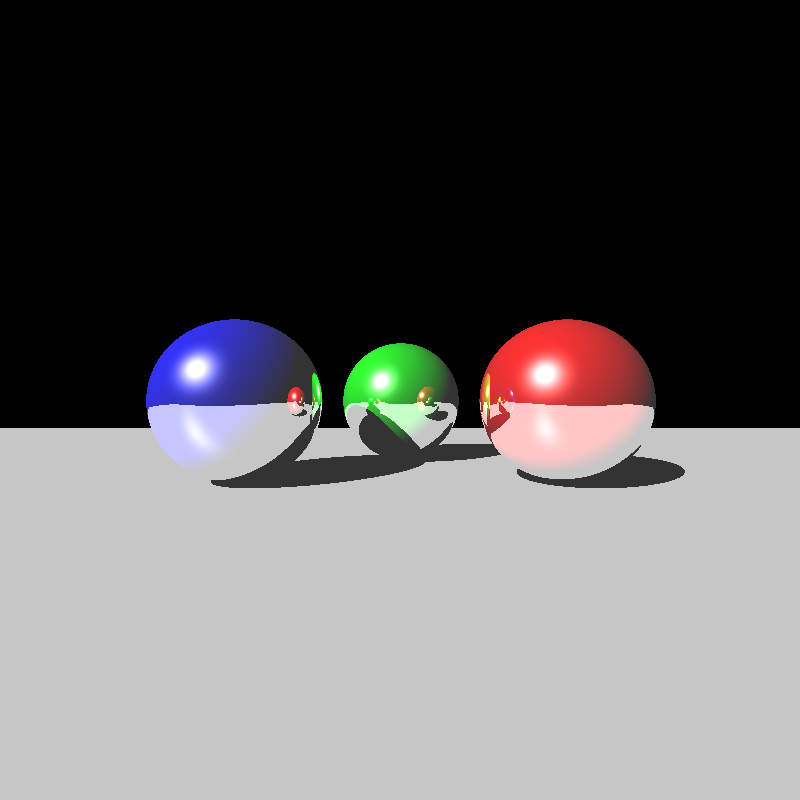
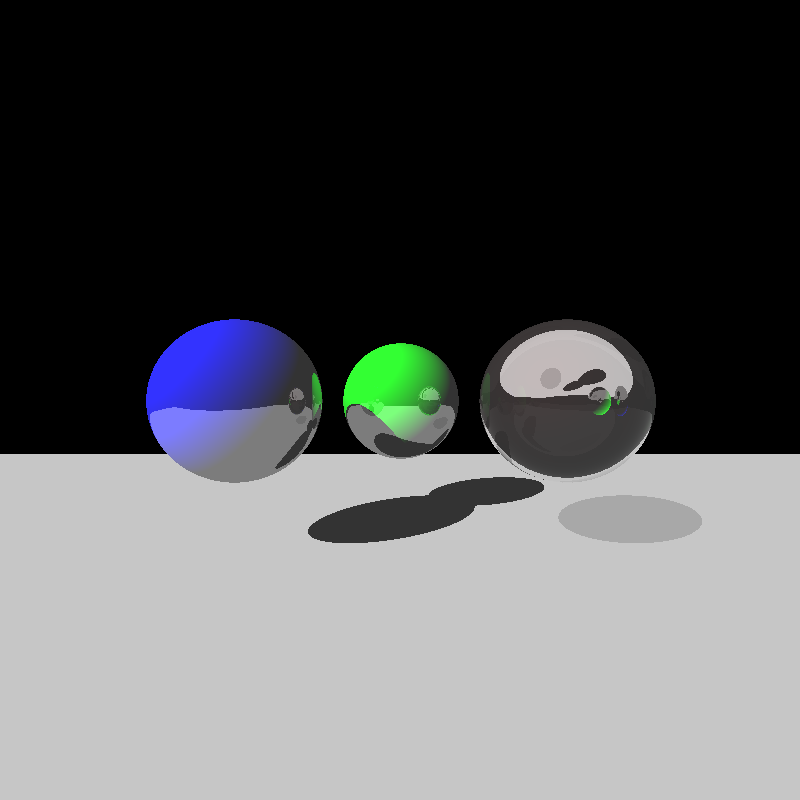
Reorganize the file structures and change to Whitted shading method.

Changed region(s): [[0.0, 0.375, 1.0, 0.6875]]

diff --git a/raytracer-windows/src/main.cpp b/raytracer-windows/src/main.cpp
@@ -13,50 +13,36 @@ int main()
     // set up objects
     Sphere* sphere1 = new Sphere(Point(0,0,0),1);
     sphere1->moveTo(Point(0, 2, 0));
-    BRDF brdf;
-    brdf.ka = Color(0.2, 0.2, 0.2);    
-    brdf.kd = Color(0.8, 0.0, 0.0);
-    brdf.ks = Color(1, 1, 1);
-    brdf.kr = Color(1, 1, 1);
-    sphere1->setBRDF(brdf);
-    sphere1->setShiness(50.0);
+    sphere1->material.kd = Color(0.02f, 0.0f, 0.0f);
+    sphere1->material.isReflective = true;
+    sphere1->material.isTransparent = true;
+    sphere1->material.refractive_index = 1.5f;
     scene1.objects.push_back(sphere1);
 
     Sphere* sphere2 = new Sphere(Point(0, 0, 0), 1);
     sphere2->moveTo(Point(0, -2, 0));
-    brdf.ka = Color(0.2, 0.2, 0.2);
-    brdf.kd = Color(0.0, 0.0, 0.8);
-    brdf.ks = Color(1, 1, 1);
-    brdf.kr = Color(1, 1, 1);
-    sphere2->setBRDF(brdf);
-    sphere2->setShiness(50.0);
+    sphere2->material.kd = Color(0.0, 0.0, 1.0);
+    sphere2->material.isReflective = true;
+    sphere2->material.ks = Color(0.5, 0.5, 0.5);
     scene1.objects.push_back(sphere2);
 
     Sphere* sphere3 = new Sphere(Point(0, 0, 0), 1);
     sphere3->moveTo(Point(-2, 0, 0));
-    brdf.ka = Color(0.2, 0.2, 0.2);
-    brdf.kd = Color(0.0, 0.8, 0.0);
-    brdf.ks = Color(1, 1, 1);
-    brdf.kr = Color(1, 1, 1);
-    sphere3->setBRDF(brdf);
-    sphere3->setShiness(50.0);
+    sphere3->material.kd = Color(0.0, 1.0, 0.0);
+    sphere3->material.isReflective = true;
+    sphere3->material.ks = Color(0.5, 0.5, 0.5);
     scene1.objects.push_back(sphere3);
 
     Plane* plane1 = new Plane(Vertex(10,-20,0),Vertex(10,20,0),Vertex(-10,20,0));
-    plane1->moveTo(Point(0, 0, -1));
-    brdf.ka = Color(0.2, 0.2, 0.2);
-    brdf.kd = Color(1.0, 1.0, 1.0);
-    brdf.ks = Color(0.2, 0.2, 0.2);
-    brdf.kr = Color(0, 0, 0);
-    plane1->setBRDF(brdf);
-    plane1->setShiness(50.0);
+    plane1->moveTo(Point(0, 0, -2));
+    plane1->material.kd = Color(1.0, 1.0, 1.0);
     scene1.objects.push_back(plane1);
 
     // set up lights
     DirectionalLight* dLight = new DirectionalLight(Vector(-1,  1, -1));
-    dLight->color.r = 0.5;
-    dLight->color.g = 0.5;
-    dLight->color.b = 0.5;
+    dLight->color.r = 1.0;
+    dLight->color.g = 1.0;
+    dLight->color.b = 1.0;
     scene1.light_sources.push_back(dLight);
 
     PointLight* pLight = new PointLight(Point(10, -10, 10));
@@ -70,11 +56,12 @@ int main()
     cam1->setImageSize(800, 800);
     cam1->setFovy(90);
     cam1->moveToGlobal(Point(5.0f, 0.0f, 0.0f));
-    cam1->lootAtDirection(Vector(-1, 0, 0));
+    cam1->lootAtPoint(Vector(0, 0, 0));
 
     // cam1->setCamToWorld(Transformation(0, 1, 0, 0, 0, 0, 1, 0, 1, 0, 0, 0, 0, 0, 0, 1));
     scene1.camera_list.push_back(cam1);
 
     scene1.render();
-    
+
+    return 0;
 }

diff --git a/raytracer-windows/include/Primitives/PrimitiveBase.h b/raytracer-windows/include/Primitives/PrimitiveBase.h
@@ -1,10 +1,12 @@
 #pragma once
 #include <glm/glm.hpp>
 #include <glm/gtc/matrix_transform.hpp>
-#include "Ray.h"
-#include "Typedefs.h"
+#include "../Ray.h"
+#include "../Typedefs.h"
+#include "../Materials/MaterialBase.h"
 
 class PrimitiveBase;
+class Ray;
 
 struct Intersection
 {
@@ -12,14 +14,15 @@ struct Intersection
 
 	float dist;
 	Point hitPosition;
-	Vector normalVec;
+	Vector outward_normal; // always point against the ray direction 
 };
 
 
 class PrimitiveBase
 {
 public:
-	virtual bool intersect(const Ray& ray, Intersection *result);
+	virtual bool intersect(const Ray& ray, Intersection* result);
+	//virtual bool intersect(const Ray& ray, Intersection *result);
 	
 	// move object to global/world coordinate
 	virtual void moveTo(const Point& newOrigin);
@@ -34,16 +37,10 @@ public:
 
 	void setWorldToObject(const Transformation& T);
 	void setObjectToWorld(const Transformation& T);
-
-	// material
-	BRDF getBRDF();
-	void setBRDF(BRDF new_brdf);
-	float getShiness();
-	void setShiness(float s);
 	
 	// general properties
 	Point center;
-	Material material;
+	MaterialBase material;
 	Transformation worldToObject = Transformation(1.0);
 	Transformation objectToWorld = Transformation(1.0);
 

diff --git a/raytracer-windows/include/Typedefs.h b/raytracer-windows/include/Typedefs.h
@@ -9,57 +9,3 @@ typedef glm::vec3 Translation;
 typedef glm::mat3 Rotation;
 
 typedef glm::mat4 Transformation;
-
-struct Sample {
-	Sample(float u, float v) :u(u), v(v) {};
-	float u;
-	float v;
-};
-
-// top left is (i=1,j=1), bottom right is (i=height, j=width)
-struct Pixel {
-	Pixel(int i, int j) :i(i), j(j) {};
-	int i;
-	int j;
-};
-
-class Color {
-public:
-	Color() {};
-	Color(float r, float g, float b) :r(r), g(g), b(b) {}
-	Color(float r, float g, float b, float a):r(r),g(g),b(b),a(a){}
-	
-	float r = 1.0;
-	float g = 1.0;
-	float b = 1.0;
-	float a = 1.0;
-
-	Color operator+(const Color &c) {
-		return Color(r + c.r, g + c.g, b + c.b, 1 - (1 - a) * (1 - c.a));
-	}
-
-	Color operator*(const float scale) {
-		return Color(r * scale, g * scale, b * scale, a);
-	}
-
-	Color operator*(const Color& c) {
-		return Color(r * c.r, g * c.g, b*c.b);
-	}
-
-	Color& operator+=(const Color& c) {
-		r = r + c.r;
-		g = g + c.g;
-		b = b + c.b;
-		a = 1 - (1 - a) * (1 - c.a);
-		return *this;
-	}
-};
-
-struct BRDF {
-	Color kd, ks, ka, kr; //diffuse, specular and ambient , reflection coefficient
-};
-
-struct Material {
-	BRDF brdf;
-	float shiness;
-};

diff --git a/raytracer-windows/include/RayTracingStructs.h b/raytracer-windows/include/RayTracingStructs.h
@@ -1,0 +1,53 @@
+#pragma once
+
+struct Sample {
+	Sample(float u, float v) :u(u), v(v) {};
+	float u;
+	float v;
+};
+
+// top left is (i=1,j=1), bottom right is (i=height, j=width)
+struct Pixel {
+	Pixel(int i, int j) :i(i), j(j) {};
+	int i;
+	int j;
+};
+
+struct Color {
+	Color() { r = 0.0f; g = 0.0f; b = 0.0f; }
+	Color(float r, float g, float b) :r(r), g(g), b(b) {}
+
+	Color operator+(const Color& c) {
+		return Color(r + c.r, g + c.g, b + c.b);
+	}
+
+	Color operator-(const Color& c) {
+		return Color(r - c.r, g - c.g, b - c.b);
+	}
+
+	Color operator*(const float scale) {
+		return Color(r * scale, g * scale, b * scale);
+	}
+
+	Color operator*(const Color& c) {
+		return Color(r * c.r, g * c.g, b * c.b);
+	}
+
+	Color& operator+=(const Color& c) {
+		r += c.r;
+		g += c.g;
+		b += c.b;
+		return *this;
+	}
+
+	Color& operator*= (const Color & c){
+		r *= c.r;
+		g *= c.g;
+		b *= c.b;
+		return *this;
+	}
+
+	float r;
+	float g;
+	float b;
+};

diff --git a/raytracer-windows/include/RayTracer.h b/raytracer-windows/include/RayTracer.h
@@ -15,9 +15,10 @@ public:
 
 	// some helper function
 	bool intersectObjects(const Ray& ray);								// check if a ray hit an object in the ob
-	bool intersectObjects(const Ray& ray, Intersection *ressult);		// check if a ray hit an object and return the result
+	bool intersectObjects(const Ray& ray, Intersection *result);		// check if a ray hit an object and return the result
+	bool intersectOpaqueObjects(const Ray& ray, Color *color_modifier);	// check if a shadow ray is occluded
 
-	int MAX_DEPTH = 3;
+	int MAX_DEPTH = 10;
 	std::vector<LightBase*> *light_sources;
 	std::vector<PrimitiveBase*> *objects;
 

diff --git a/raytracer-windows/include/Ray.h b/raytracer-windows/include/Ray.h
@@ -1,6 +1,6 @@
 #pragma once
 #include <glm/glm.hpp>
-
+#include "Primitives/PrimitiveBase.h"
 #include "Typedefs.h"
 
 
@@ -8,18 +8,20 @@
 // 12/26/2023 Gaofeng Su
 // ray tracer learning project
 
-
+class PrimitiveBase;
 
 class Ray
 {
 public:
 	Ray(Point position, Vector direction);
+	Ray(Point position, Vector direction, PrimitiveBase* primitive);
 	Ray(Point position, Vector dir, float t_min, float t_max);
 
 	Point position;
 	Vector direction;
 	float t_min = 0;
 	float t_max = INFINITY;
+	PrimitiveBase* fromPrimitive = nullptr;
 
 };
 

diff --git a/raytracer-windows/include/Materials/MaterialBase.h b/raytracer-windows/include/Materials/MaterialBase.h
@@ -1,0 +1,20 @@
+#pragma once
+#include "../Typedefs.h"
+#include "../RayTracingStructs.h"
+
+class MaterialBase
+{
+public:
+    MaterialBase() {};
+
+    //Color ka;                            // ambient
+    Color kd = Color(1.0,1.0,1.0);       // diffuse
+    Color ks = Color(1.0,1.0,1.0);       // specular
+    //float shiness;
+    //Color ke;       // emission
+
+    float refractive_index = 1.0f;
+    bool isTransparent = false;
+    bool isReflective = false;
+};
+

diff --git a/raytracer-windows/src/Primitives/PrimitiveBase.cpp b/raytracer-windows/src/Primitives/PrimitiveBase.cpp
@@ -20,20 +20,3 @@ void PrimitiveBase::setObjectToWorld(const Transformation& T) {
 bool PrimitiveBase::intersect(const Ray& ray, Intersection *result) {
 	return false;
 }
-
-
-BRDF PrimitiveBase::getBRDF() {
-	return material.brdf;
-}
-
-void PrimitiveBase::setBRDF(BRDF new_brdf) {
-	material.brdf = new_brdf;
-}
-
-float PrimitiveBase::getShiness() {
-	return material.shiness;
-}
-
-void PrimitiveBase::setShiness(float  s) {
-	material.shiness = s;
-}

diff --git a/raytracer-windows/src/Ray.cpp b/raytracer-windows/src/Ray.cpp
@@ -5,6 +5,12 @@ Ray::Ray(Point position, Vector direction) {
 	this->direction = glm::normalize(direction);
 };
 
+Ray::Ray(Point position, Vector direction, PrimitiveBase* primitive) {
+	this->position = position;
+	this->direction = glm::normalize(direction);
+	this->fromPrimitive = primitive;
+};
+
 Ray::Ray(Point position, Vector direction, float t_min, float t_max) {
 	this->position = position;
 	this->direction = glm::normalize(direction);

diff --git a/raytracer-windows/src/Primitives/Sphere.cpp b/raytracer-windows/src/Primitives/Sphere.cpp
@@ -41,7 +41,8 @@ bool Sphere::intersect(const Ray& ray, Intersection *result) {
 		if (result != nullptr) {
 			result->dist = t;
 			result->hitPosition = p + d * result->dist;
-			result->normalVec = glm::normalize(result->hitPosition - o);
+			Vector normal = glm::normalize(result->hitPosition - o);
+			result->outward_normal = (glm::dot(normal, ray.direction) >= 0)? -normal : normal;
 			result->hitPrimitive = this;
 		}
 		return true;

diff --git a/raytracer-windows/src/Primitives/Plane.cpp b/raytracer-windows/src/Primitives/Plane.cpp
@@ -28,7 +28,7 @@ bool Plane::intersect(const Ray& ray, Intersection* result) {
 		if (result != nullptr) {
 			result->dist = sol.x;
 			result->hitPosition = ray.position + sol.x * ray.direction;
-			result->normalVec = normal;
+			result->outward_normal = glm::dot(normal,ray.direction)>=0? -normal: normal;
 			result->hitPrimitive = this;
 		}
 		return true;
